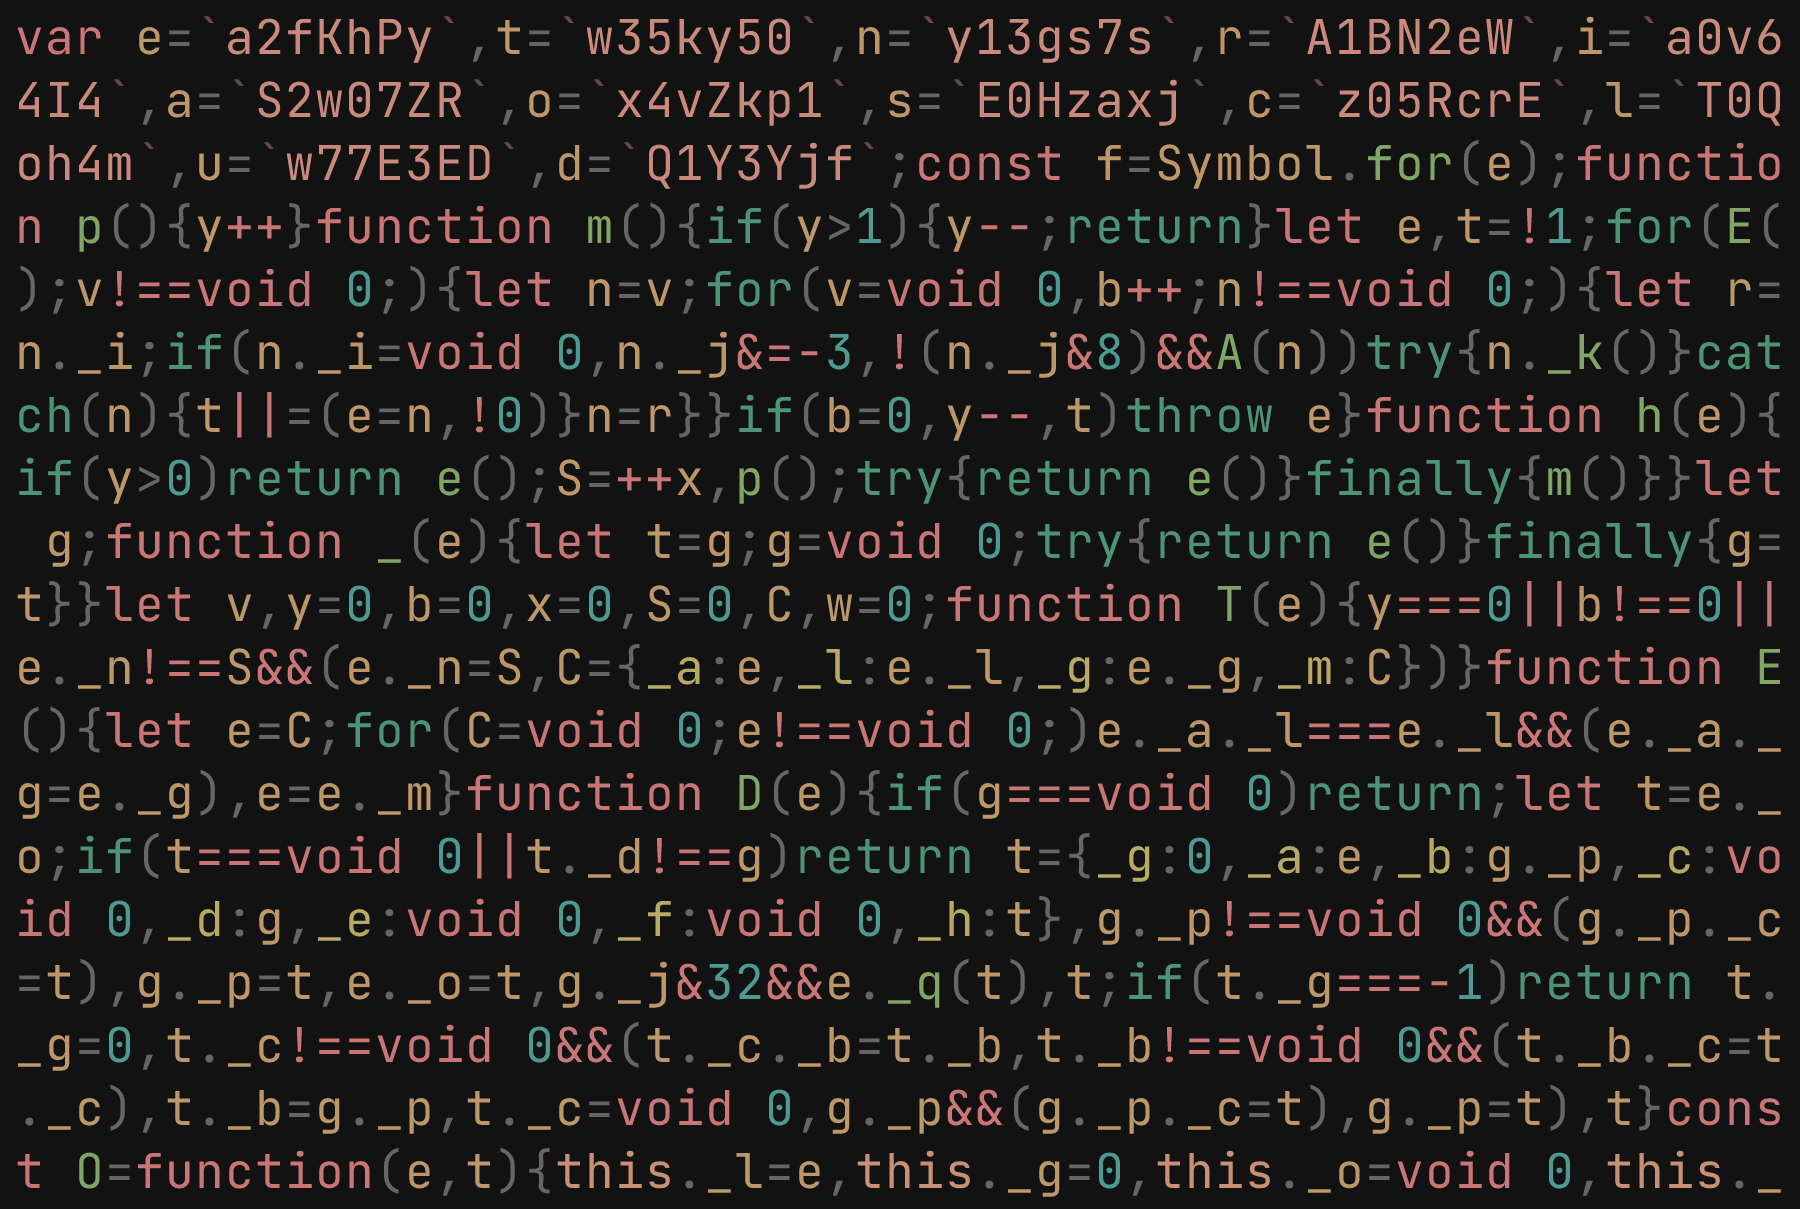
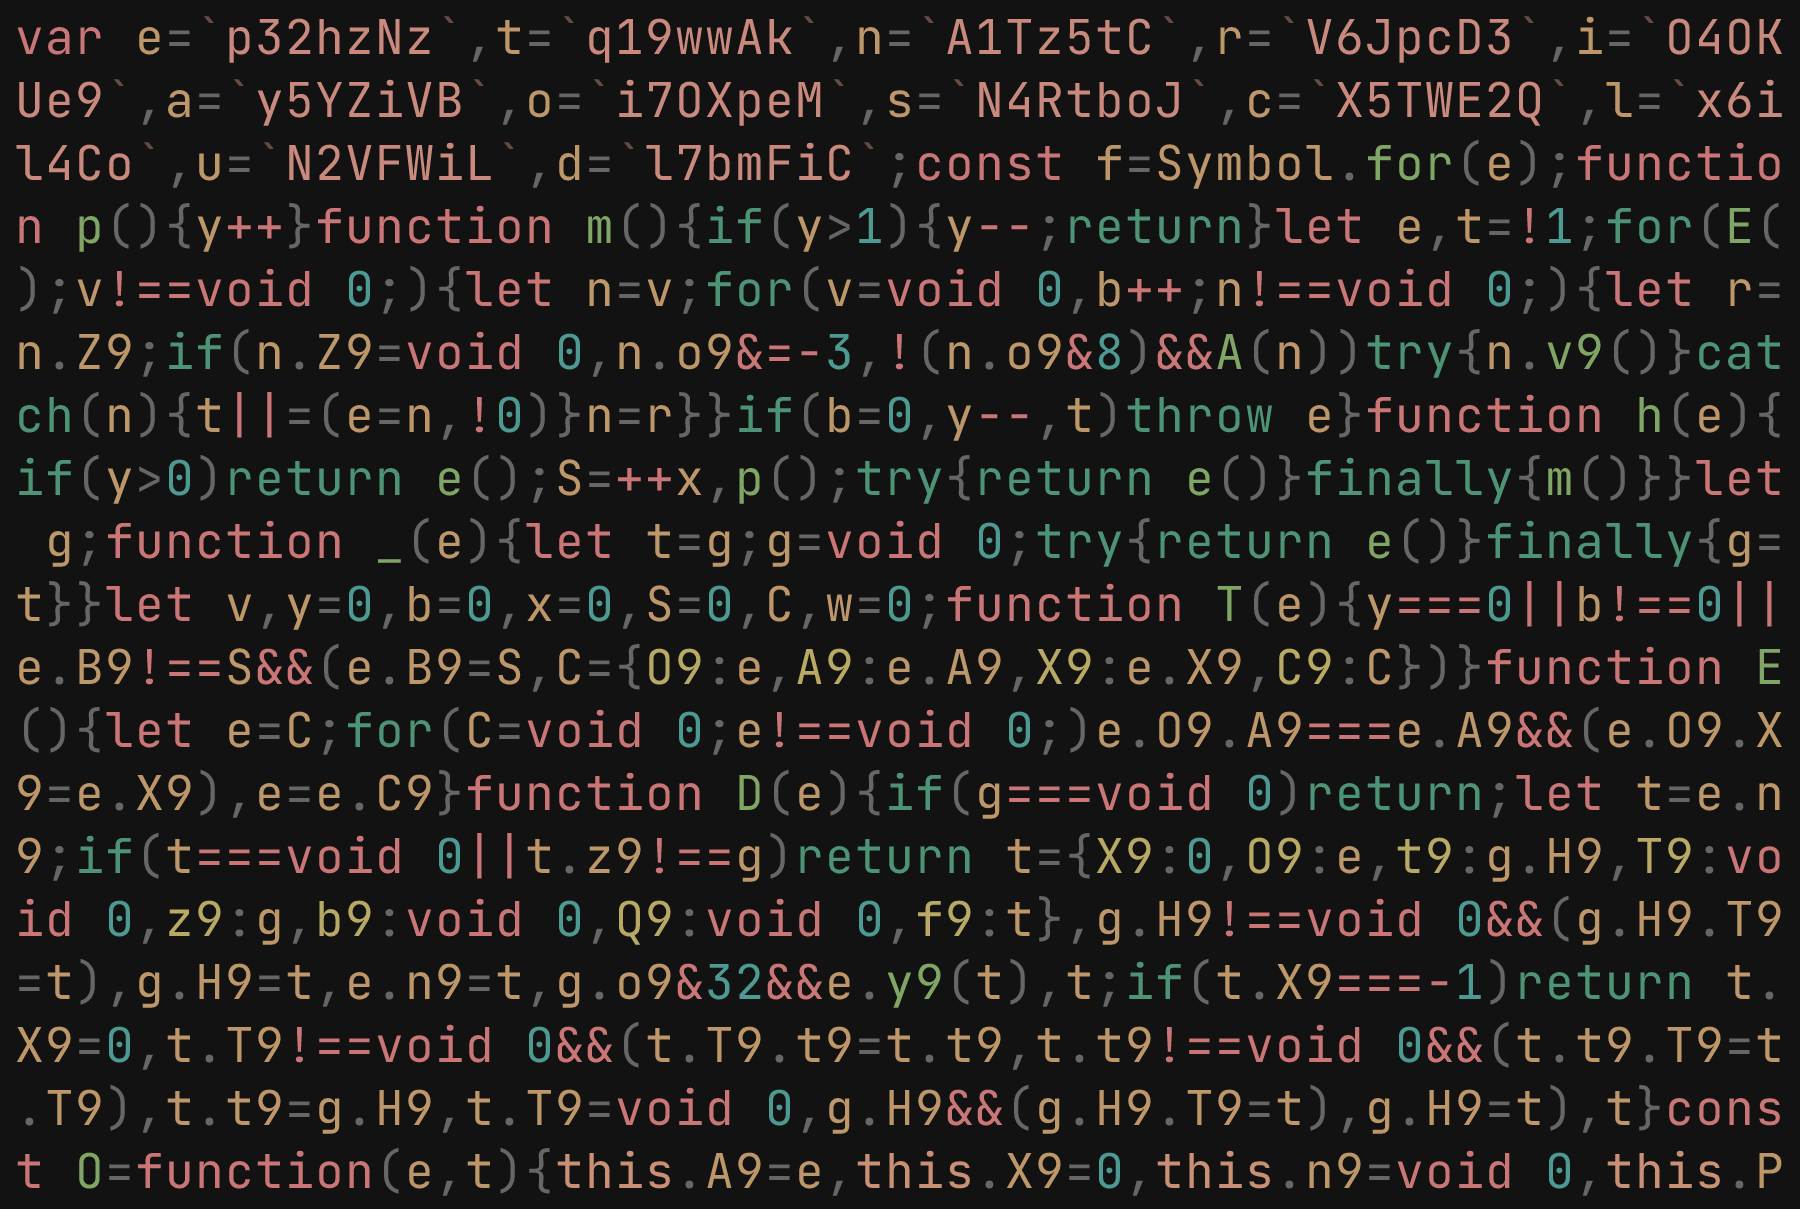
feat: refine lexical counter

diff --git a/demo/signals/dist_sample/keywordified.min.js b/demo/signals/dist_sample/keywordified.min.js
@@ -1,1 +1,1 @@
-var e=`a2fKhPy`,t=`w35ky50`,n=`y13gs7s`,r=`A1BN2eW`,i=`a0v64I4`,a=`S2w07ZR`,o=`x4vZkp1`,s=`E0Hzaxj`,c=`z05RcrE`,l=`T0Qoh4m`,u=`w77E3ED`,d=`Q1Y3Yjf`;const f=Symbol.for(e);function p(){y++}function m(){if(y>1){y--;return}let e,t=!1;for(E();v!==void 0;){let n=v;for(v=void 0,b++;n!==void 0;){let r=n._i;if(n._i=void 0,n._j&=-3,!(n._j&8)&&A(n))try{n._k()}catch(n){t||=(e=n,!0)}n=r}}if(b=0,y--,t)throw e}function h(e){if(y>0)return e();S=++x,p();try{return e()}finally{m()}}let g;function _(e){let t=g;g=void 0;try{return e()}finally{g=t}}let v,y=0,b=0,x=0,S=0,C,w=0;function T(e){y===0||b!==0||e._n!==S&&(e._n=S,C={_a:e,_l:e._l,_g:e._g,_m:C})}function E(){let e=C;for(C=void 0;e!==void 0;)e._a._l===e._l&&(e._a._g=e._g),e=e._m}function D(e){if(g===void 0)return;let t=e._o;if(t===void 0||t._d!==g)return t={_g:0,_a:e,_b:g._p,_c:void 0,_d:g,_e:void 0,_f:void 0,_h:t},g._p!==void 0&&(g._p._c=t),g._p=t,e._o=t,g._j&32&&e._q(t),t;if(t._g===-1)return t._g=0,t._c!==void 0&&(t._c._b=t._b,t._b!==void 0&&(t._b._c=t._c),t._b=g._p,t._c=void 0,g._p&&(g._p._c=t),g._p=t),t}const O=function(e,t){this._l=e,this._g=0,this._o=void 0,this._r=void 0,this._n=0,this._u=t?.[o],this._v=t?.[s],this[n]=t?.[n]};O.prototype[i]=f,O.prototype._s=()=>!0,O.prototype._q=function(e){let t=this._r;t!==e&&e._e===void 0&&(e._f=t,this._r=e,t===void 0?_(()=>{this._u?.call(this)}):t._e=e)},O.prototype._t=function(e){if(this._r!==void 0){let t=e._e,n=e._f;t!==void 0&&(t._f=n,e._e=void 0),n!==void 0&&(n._e=t,e._f=void 0),e===this._r&&(this._r=n,n===void 0&&_(()=>{this._v?.call(this)}))}},O.prototype[t]=function(e){return B(()=>{let t=this[a],n=g;g=void 0;try{e(t)}finally{g=n}},{[n]:c})},O.prototype[r]=function(){return _(()=>this[a])},O.prototype.valueOf=function(){return this[a]},O.prototype.toString=function(){return this[a]+``},O.prototype.toJSON=function(){return this[a]},Object.defineProperty(O.prototype,a,{get(){let e=D(this);return e!==void 0&&(e._g=this._g),this._l},set(e){if(e!==this._l){if(b>100)throw Error(l);T(this),this._l=e,this._g++,w++,p();try{for(let e=this._r;e!==void 0;e=e._f)e._d._w()}finally{m()}}}});function k(e,t){return new O(e,t)}function A(e){for(let t=e._p;t!==void 0;t=t._c)if(t._a._g!==t._g||!t._a._s()||t._a._g!==t._g)return!0;return!1}function j(e){for(let t=e._p;t!==void 0;t=t._c){let n=t._a._o;if(n!==void 0&&(t._h=n),t._a._o=t,t._g=-1,t._c===void 0){e._p=t;break}}}function M(e){let t=e._p,n;for(;t!==void 0;){let e=t._b;t._g===-1?(t._a._t(t),e!==void 0&&(e._c=t._c),t._c!==void 0&&(t._c._b=e)):n=t,t._a._o=t._h,t._h!==void 0&&(t._h=void 0),t=e}e._p=n}const N=function(e,t){O.call(this,void 0),this._x=e,this._p=void 0,this._y=w-1,this._j=4,this._u=t?.[o],this._v=t?.[s],this[n]=t?.[n]};N.prototype=new O,N.prototype._s=function(){if(this._j&=-3,this._j&1)return!1;if((this._j&36)==32||(this._j&=-5,this._y===w))return!0;if(this._y=w,this._j|=1,this._g>0&&!A(this))return this._j&=-2,!0;let e=g;try{j(this),g=this;let e=this._x();(this._j&16||this._l!==e||this._g===0)&&(this._l=e,this._j&=-17,this._g++)}catch(e){this._l=e,this._j|=16,this._g++}return g=e,M(this),this._j&=-2,!0},N.prototype._q=function(e){if(this._r===void 0){this._j|=36;for(let e=this._p;e!==void 0;e=e._c)e._a._q(e)}O.prototype._q.call(this,e)},N.prototype._t=function(e){if(this._r!==void 0&&(O.prototype._t.call(this,e),this._r===void 0)){this._j&=-33;for(let e=this._p;e!==void 0;e=e._c)e._a._t(e)}},N.prototype._w=function(){if(!(this._j&2)){this._j|=6;for(let e=this._r;e!==void 0;e=e._f)e._d._w()}},Object.defineProperty(N.prototype,a,{get(){if(this._j&1)throw Error(l);let e=D(this);if(this._s(),e!==void 0&&(e._g=this._g),this._j&16)throw this._l;return this._l}});function P(e,t){return new N(e,t)}function F(e){let t=e._z;if(e._z=void 0,typeof t==`function`){p();let n=g;g=void 0;try{t()}catch(t){throw e._j&=-2,e._j|=8,I(e),t}finally{g=n,m()}}}function I(e){for(let t=e._p;t!==void 0;t=t._c)t._a._t(t);e._x=void 0,e._p=void 0,F(e)}function L(e){if(g!==this)throw Error(u);M(this),g=e,this._j&=-2,this._j&8&&I(this),m()}let R;const z=function(e,t){this._x=e,this._z=void 0,this._p=void 0,this._i=void 0,this._j=32,this[n]=t?.[n],R&&R.push(this)};z.prototype._k=function(){let e=this._B();try{if(this._j&8||this._x===void 0)return;let e=this._x();typeof e==`function`&&(this._z=e)}finally{e()}},z.prototype._B=function(){if(this._j&1)throw Error(l);this._j|=1,this._j&=-9,F(this),j(this),p();let e=g;return g=this,L.bind(this,e)},z.prototype._w=function(){this._j&2||(this._j|=2,this._i=v,v=this)},z.prototype._C=function(){this._j|=8,this._j&1||I(this)},z.prototype[d]=function(){this._C()};function B(e,t){let n=new z(e,t);try{n._k()}catch(e){throw n._C(),e}let r=n._C.bind(n);return Object.assign(r,{[Symbol.dispose]:r}),r}function V(e){return function(...t){return h(()=>_(()=>e.apply(this,t)))}}function H(){let e=R;return R=[],function(){let t=R;return R&&e&&(e=e.concat(R)),R=e,t}}const U=e=>{let t=Reflect.ownKeys(e);for(let n=0;n<t.length;n++){let r=t[n],i=e[r];typeof i==`function`?e[r]=V(i):typeof i==`object`&&i&&!(`a0v64I4`in i)&&U(i)}};function W(e){return function(...t){let n,r,i=H();try{r=e(...t)}catch(e){throw R=void 0,e}finally{n=i()}return U(r),r[Symbol.dispose]=V(function(){let e=n;if(e)for(let t=0;t<e.length;t++)e[t]?.[d]();n=void 0}),r}}export{N as Computed,z as Effect,O as Signal,V as action,h as batch,P as computed,W as createModel,B as effect,k as signal,_ as untracked};
+var e=`p32hzNz`,t=`q19wwAk`,n=`A1Tz5tC`,r=`V6JpcD3`,i=`O4OKUe9`,a=`y5YZiVB`,o=`i7OXpeM`,s=`N4RtboJ`,c=`X5TWE2Q`,l=`x6il4Co`,u=`N2VFWiL`,d=`l7bmFiC`;const f=Symbol.for(e);function p(){y++}function m(){if(y>1){y--;return}let e,t=!1;for(E();v!==void 0;){let n=v;for(v=void 0,b++;n!==void 0;){let r=n.Z9;if(n.Z9=void 0,n.o9&=-3,!(n.o9&8)&&A(n))try{n.v9()}catch(n){t||=(e=n,!0)}n=r}}if(b=0,y--,t)throw e}function h(e){if(y>0)return e();S=++x,p();try{return e()}finally{m()}}let g;function _(e){let t=g;g=void 0;try{return e()}finally{g=t}}let v,y=0,b=0,x=0,S=0,C,w=0;function T(e){y===0||b!==0||e.B9!==S&&(e.B9=S,C={O9:e,A9:e.A9,X9:e.X9,C9:C})}function E(){let e=C;for(C=void 0;e!==void 0;)e.O9.A9===e.A9&&(e.O9.X9=e.X9),e=e.C9}function D(e){if(g===void 0)return;let t=e.n9;if(t===void 0||t.z9!==g)return t={X9:0,O9:e,t9:g.H9,T9:void 0,z9:g,b9:void 0,Q9:void 0,f9:t},g.H9!==void 0&&(g.H9.T9=t),g.H9=t,e.n9=t,g.o9&32&&e.y9(t),t;if(t.X9===-1)return t.X9=0,t.T9!==void 0&&(t.T9.t9=t.t9,t.t9!==void 0&&(t.t9.T9=t.T9),t.t9=g.H9,t.T9=void 0,g.H9&&(g.H9.T9=t),g.H9=t),t}const O=function(e,t){this.A9=e,this.X9=0,this.n9=void 0,this.P9=void 0,this.B9=0,this.i9=t?.[o],this.c9=t?.[s],this[n]=t?.[n]};O.prototype[i]=f,O.prototype.S9=()=>!0,O.prototype.y9=function(e){let t=this.P9;t!==e&&e.b9===void 0&&(e.Q9=t,this.P9=e,t===void 0?_(()=>{this.i9?.call(this)}):t.b9=e)},O.prototype.I9=function(e){if(this.P9!==void 0){let t=e.b9,n=e.Q9;t!==void 0&&(t.Q9=n,e.b9=void 0),n!==void 0&&(n.b9=t,e.Q9=void 0),e===this.P9&&(this.P9=n,n===void 0&&_(()=>{this.c9?.call(this)}))}},O.prototype[t]=function(e){return B(()=>{let t=this[a],n=g;g=void 0;try{e(t)}finally{g=n}},{[n]:c})},O.prototype[r]=function(){return _(()=>this[a])},O.prototype.valueOf=function(){return this[a]},O.prototype.toString=function(){return this[a]+``},O.prototype.toJSON=function(){return this[a]},Object.defineProperty(O.prototype,a,{get(){let e=D(this);return e!==void 0&&(e.X9=this.X9),this.A9},set(e){if(e!==this.A9){if(b>100)throw Error(l);T(this),this.A9=e,this.X9++,w++,p();try{for(let e=this.P9;e!==void 0;e=e.Q9)e.z9.k9()}finally{m()}}}});function k(e,t){return new O(e,t)}function A(e){for(let t=e.H9;t!==void 0;t=t.T9)if(t.O9.X9!==t.X9||!t.O9.S9()||t.O9.X9!==t.X9)return!0;return!1}function j(e){for(let t=e.H9;t!==void 0;t=t.T9){let n=t.O9.n9;if(n!==void 0&&(t.f9=n),t.O9.n9=t,t.X9=-1,t.T9===void 0){e.H9=t;break}}}function M(e){let t=e.H9,n;for(;t!==void 0;){let e=t.t9;t.X9===-1?(t.O9.I9(t),e!==void 0&&(e.T9=t.T9),t.T9!==void 0&&(t.T9.t9=e)):n=t,t.O9.n9=t.f9,t.f9!==void 0&&(t.f9=void 0),t=e}e.H9=n}const N=function(e,t){O.call(this,void 0),this.D9=e,this.H9=void 0,this.R9=w-1,this.o9=4,this.i9=t?.[o],this.c9=t?.[s],this[n]=t?.[n]};N.prototype=new O,N.prototype.S9=function(){if(this.o9&=-3,this.o9&1)return!1;if((this.o9&36)==32||(this.o9&=-5,this.R9===w))return!0;if(this.R9=w,this.o9|=1,this.X9>0&&!A(this))return this.o9&=-2,!0;let e=g;try{j(this),g=this;let e=this.D9();(this.o9&16||this.A9!==e||this.X9===0)&&(this.A9=e,this.o9&=-17,this.X9++)}catch(e){this.A9=e,this.o9|=16,this.X9++}return g=e,M(this),this.o9&=-2,!0},N.prototype.y9=function(e){if(this.P9===void 0){this.o9|=36;for(let e=this.H9;e!==void 0;e=e.T9)e.O9.y9(e)}O.prototype.y9.call(this,e)},N.prototype.I9=function(e){if(this.P9!==void 0&&(O.prototype.I9.call(this,e),this.P9===void 0)){this.o9&=-33;for(let e=this.H9;e!==void 0;e=e.T9)e.O9.I9(e)}},N.prototype.k9=function(){if(!(this.o9&2)){this.o9|=6;for(let e=this.P9;e!==void 0;e=e.Q9)e.z9.k9()}},Object.defineProperty(N.prototype,a,{get(){if(this.o9&1)throw Error(l);let e=D(this);if(this.S9(),e!==void 0&&(e.X9=this.X9),this.o9&16)throw this.A9;return this.A9}});function P(e,t){return new N(e,t)}function F(e){let t=e.w9;if(e.w9=void 0,typeof t==`function`){p();let n=g;g=void 0;try{t()}catch(t){throw e.o9&=-2,e.o9|=8,I(e),t}finally{g=n,m()}}}function I(e){for(let t=e.H9;t!==void 0;t=t.T9)t.O9.I9(t);e.D9=void 0,e.H9=void 0,F(e)}function L(e){if(g!==this)throw Error(u);M(this),g=e,this.o9&=-2,this.o9&8&&I(this),m()}let R;const z=function(e,t){this.D9=e,this.w9=void 0,this.H9=void 0,this.Z9=void 0,this.o9=32,this[n]=t?.[n],R&&R.push(this)};z.prototype.v9=function(){let e=this.U9();try{if(this.o9&8||this.D9===void 0)return;let e=this.D9();typeof e==`function`&&(this.w9=e)}finally{e()}},z.prototype.U9=function(){if(this.o9&1)throw Error(l);this.o9|=1,this.o9&=-9,F(this),j(this),p();let e=g;return g=this,L.bind(this,e)},z.prototype.k9=function(){this.o9&2||(this.o9|=2,this.Z9=v,v=this)},z.prototype.K9=function(){this.o9|=8,this.o9&1||I(this)},z.prototype[d]=function(){this.K9()};function B(e,t){let n=new z(e,t);try{n.v9()}catch(e){throw n.K9(),e}let r=n.K9.bind(n);return Object.assign(r,{[Symbol.dispose]:r}),r}function V(e){return function(...t){return h(()=>_(()=>e.apply(this,t)))}}function H(){let e=R;return R=[],function(){let t=R;return R&&e&&(e=e.concat(R)),R=e,t}}const U=e=>{let t=Reflect.ownKeys(e);for(let n=0;n<t.length;n++){let r=t[n],i=e[r];typeof i==`function`?e[r]=V(i):typeof i==`object`&&i&&!(`O4OKUe9`in i)&&U(i)}};function W(e){return function(...t){let n,r,i=H();try{r=e(...t)}catch(e){throw R=void 0,e}finally{n=i()}return U(r),r[Symbol.dispose]=V(function(){let e=n;if(e)for(let t=0;t<e.length;t++)e[t]?.[d]();n=void 0}),r}}export{N as Computed,z as Effect,O as Signal,V as action,h as batch,P as computed,W as createModel,B as effect,k as signal,_ as untracked};

diff --git a/src/internal/hash.ts b/src/internal/hash.ts
@@ -1,5 +1,9 @@
-import { createHmac } from 'node:crypto';
-import { HASH_LENGTH } from './constants.js';
+import { createHmac, hkdfSync } from 'node:crypto';
+import {
+  HASH_LENGTH,
+  VIRTUAL_LOCAL_MODULE_ID,
+  VIRTUAL_MODULE_ID,
+} from './constants.js';
 
 const ALPHA_CHARS = 'abcdefghijklmnopqrstuvwxyzABCDEFGHIJKLMNOPQRSTUVWXYZ';
 const DIGIT_CHARS = '0123456789';
@@ -26,10 +30,12 @@ export const createHasher = (secret: string): Hasher => {
       return cache.get(input) as string;
     }
 
+    const info = VIRTUAL_MODULE_ID;
+    const payload = `${info.length}:${info}|${input.length}:${input}`;
     const hasher = createHmac('sha256', secret);
-    const buffer = hasher.update(input).digest();
+    const buffer = hasher.update(payload).digest('hex');
 
-    let entropy = buffer.readBigUInt64BE(0);
+    let entropy = BigInt(`0x${buffer}`);
     let result = '';
 
     result += ALPHA_CHARS[Number(entropy % ALPHA_LEN)];
@@ -46,20 +52,52 @@ export const createHasher = (secret: string): Hasher => {
   };
 };
 
-export const createCounter = (): Hasher => {
-  let index = 0;
-  return () => {
-    let result = '_';
+// Fisher-Yates based deterministic shuffle
+const shuffle = (str: string, secret: string, salt: string): string => {
+  const arr = Array.from(str);
+  const requiredBytes = (arr.length - 1) * 4;
+  const info = VIRTUAL_LOCAL_MODULE_ID;
+  const keyingMaterial = hkdfSync('sha256', secret, salt, info, requiredBytes);
+  const prngBuffer = Buffer.from(keyingMaterial);
+  let byteOffset = 0;
+  for (let i = arr.length - 1; i > 0; i--) {
+    const random32 = prngBuffer.readUInt32BE(byteOffset);
+    byteOffset += 4;
+    const j = random32 % (i + 1);
+    const temp = arr[i] as string;
+    arr[i] = arr[j] as string;
+    arr[j] = temp;
+  }
+  return arr.join('');
+};
 
-    result += ALPHA_CHARS[index % ALPHA_CHARS.length];
-    let remain = Math.floor(index / ALPHA_CHARS.length);
-    while (remain > 0) {
-      remain--;
-      result += BASE62_CHARS[remain % BASE62_CHARS.length];
-      remain = Math.floor(remain / BASE62_CHARS.length);
+export const createCounter = (secret: string): Hasher => {
+  const shuffledAlpha = shuffle(ALPHA_CHARS, secret, 'alpha');
+  const shuffledDigit = shuffle(DIGIT_CHARS, secret, 'digit');
+  const shuffledBase62 = shuffle(BASE62_CHARS, secret, 'base62');
+
+  let index = 0;
+  const cache = new Map<string, string>();
+  return (input) => {
+    if (cache.has(input)) {
+      return cache.get(input) as string;
     }
 
+    let result = '';
+    let current = index;
     index++;
+
+    result += shuffledAlpha[current % shuffledAlpha.length];
+    current = Math.floor(current / shuffledAlpha.length);
+    result += shuffledDigit[current % shuffledDigit.length];
+    current = Math.floor(current / shuffledDigit.length);
+    while (current > 0) {
+      current--;
+      result += shuffledBase62[current % shuffledBase62.length];
+      current = Math.floor(current / shuffledBase62.length);
+    }
+
+    cache.set(input, result);
     return result;
   };
 };

diff --git a/src/internal/plugin.ts b/src/internal/plugin.ts
@@ -79,7 +79,7 @@ export const unpluginFactory: UnpluginFactory<Options> = ({
 
     buildStart() {
       hasherMain = createHasher(secret);
-      hasherLocal = createCounter();
+      hasherLocal = createCounter(secret);
       resolvedMap = new Map();
       runnerLimit(async () => {
         if (!isInitialized) {
@@ -143,6 +143,9 @@ export const unpluginFactory: UnpluginFactory<Options> = ({
           const resolvedId = resolveId(
             `${VIRTUAL_MODULE_ID}/${KEYWORD_ROUTE_SEGMENT}/${encoded}`,
           );
+          if (resolvedMap.has(resolvedId)) {
+            continue;
+          }
           const hash = hasherMain(keyword);
           const value = isDev ? `${hash}${DEBUG_SEPARATOR}${keyword}` : hash;
           resolvedMap.set(
@@ -155,6 +158,9 @@ export const unpluginFactory: UnpluginFactory<Options> = ({
           const resolvedId = resolveId(
             `${VIRTUAL_LOCAL_MODULE_ID}/${KEYWORD_ROUTE_SEGMENT}/${encoded}`,
           );
+          if (resolvedMap.has(resolvedId)) {
+            continue;
+          }
           const hash = hasherLocal(keyword);
           const value = isDev ? `${hash}${DEBUG_SEPARATOR}${keyword}` : hash;
           resolvedMap.set(

diff --git a/README.md b/README.md
@@ -37,12 +37,12 @@ A side-by-side comparison of minified bundles:
 | [Unmodified](https://github.com/cueaz/unplugin-keywords/blob/main/demo/signals/src/original.ts) (Standard Minification) | [Keywordified](https://github.com/cueaz/unplugin-keywords/blob/main/demo/signals/src/keywordified.ts) (Literal Obfuscation) |
 |:---:|:---:|
 | <picture><source media="(prefers-color-scheme: light)" srcset="https://raw.githubusercontent.com/cueaz/unplugin-keywords/refs/heads/main/demo/signals/dist_sample/original.min.js.light.png" width="400"><img src="https://raw.githubusercontent.com/cueaz/unplugin-keywords/refs/heads/main/demo/signals/dist_sample/original.min.js.dark.png" width="400" alt="Original"></picture> | <picture><source media="(prefers-color-scheme: light)" srcset="https://raw.githubusercontent.com/cueaz/unplugin-keywords/refs/heads/main/demo/signals/dist_sample/keywordified.min.js.light.png" width="400"><img src="https://raw.githubusercontent.com/cueaz/unplugin-keywords/refs/heads/main/demo/signals/dist_sample/keywordified.min.js.dark.png" width="400" alt="Keywordified"></picture> |
-| 6.86 kB │ gzip: **2.09 kB** | **5.40 kB** │ gzip: 2.03 kB |
+| 6.86 kB │ gzip: **2.09 kB** | **5.40 kB** │ gzip: 2.05 kB |
 
 > [!NOTE]
 > **Baseline Metrics:** The "Unmodified" metrics represent standard `tsdown` minification. The official [`@preact/signals-core@1.14.1`](https://bundlephobia.com/package/@preact/signals-core@1.14.1) release achieves a smaller footprint (5.4 kB Minified / 1.9 kB Gzipped) by employing a hand-crafted [`mangle.json`](https://github.com/preactjs/signals/blob/main/mangle.json) for manual property obfuscation.
 >
-> **Compression Efficiency:** While the uncompressed bundle size is reduced by 21.3%, the gzipped size is only 2.9% smaller. This demonstrates the effectiveness of standard gzip compression on unmodified code: if minimizing the gzipped network payload is the sole objective, adopting this plugin is unnecessary.
+> **Compression Efficiency:** While the uncompressed bundle size is reduced by 21.3%, the gzipped size is only 1.9% smaller. This demonstrates the effectiveness of standard gzip compression on unmodified code: if minimizing the gzipped network payload is the sole objective, adopting this plugin is unnecessary.
 
 *For more information, see the [demo documentation](https://github.com/cueaz/unplugin-keywords/blob/main/demo/signals/README.md).*
 

diff --git a/demo/signals/README.md b/demo/signals/README.md
@@ -23,7 +23,7 @@ Compilation via `tsdown` confirms the uncompressed byte reduction and the gzip s
 $ NO_IMAGE=1 pnpm build --no-color
   ...
   ℹ dist/original.min.js      6.86 kB │ gzip: 2.09 kB
-  ℹ dist/keywordified.min.js  5.40 kB │ gzip: 2.03 kB
+  ℹ dist/keywordified.min.js  5.40 kB │ gzip: 2.05 kB
   ℹ 2 files, total: 12.25 kB
   ✔ Build complete in 324ms
 ```
